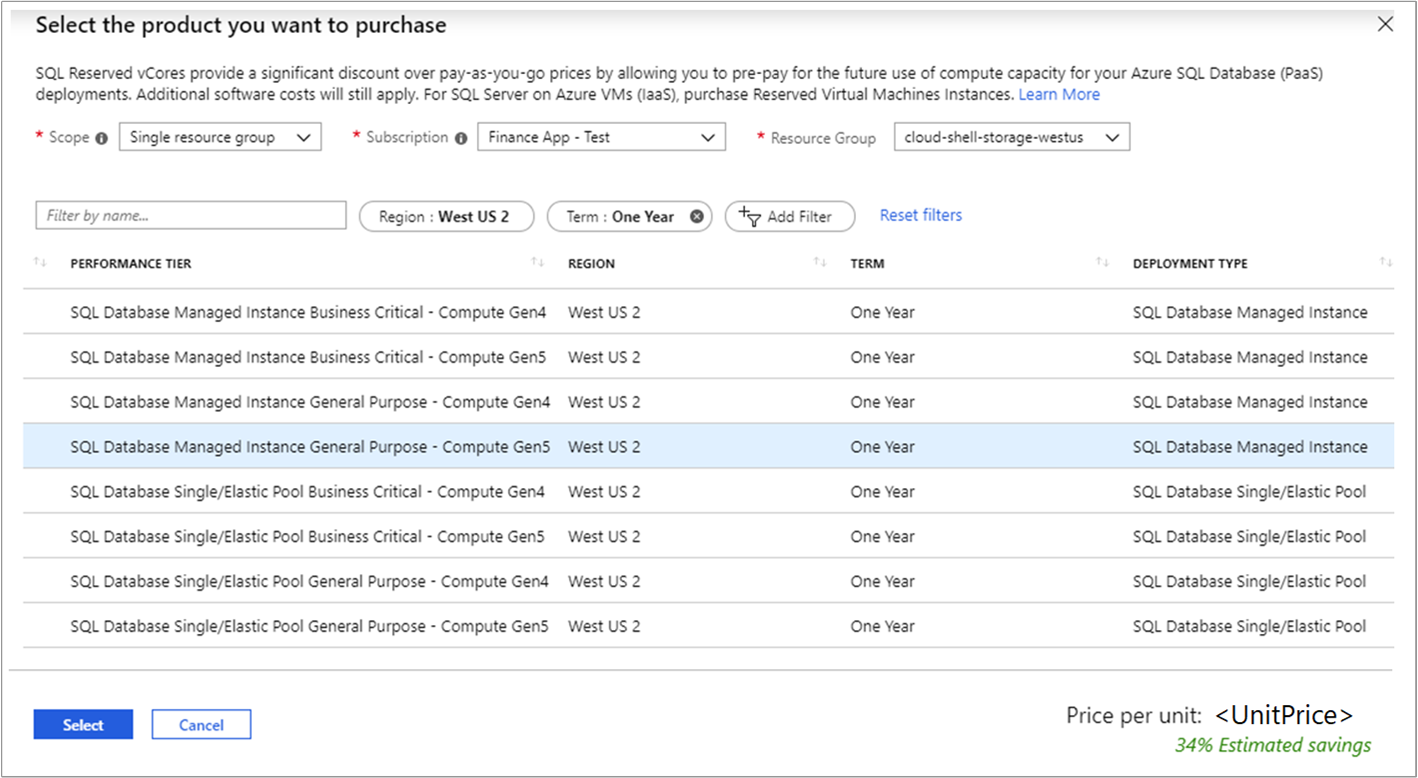
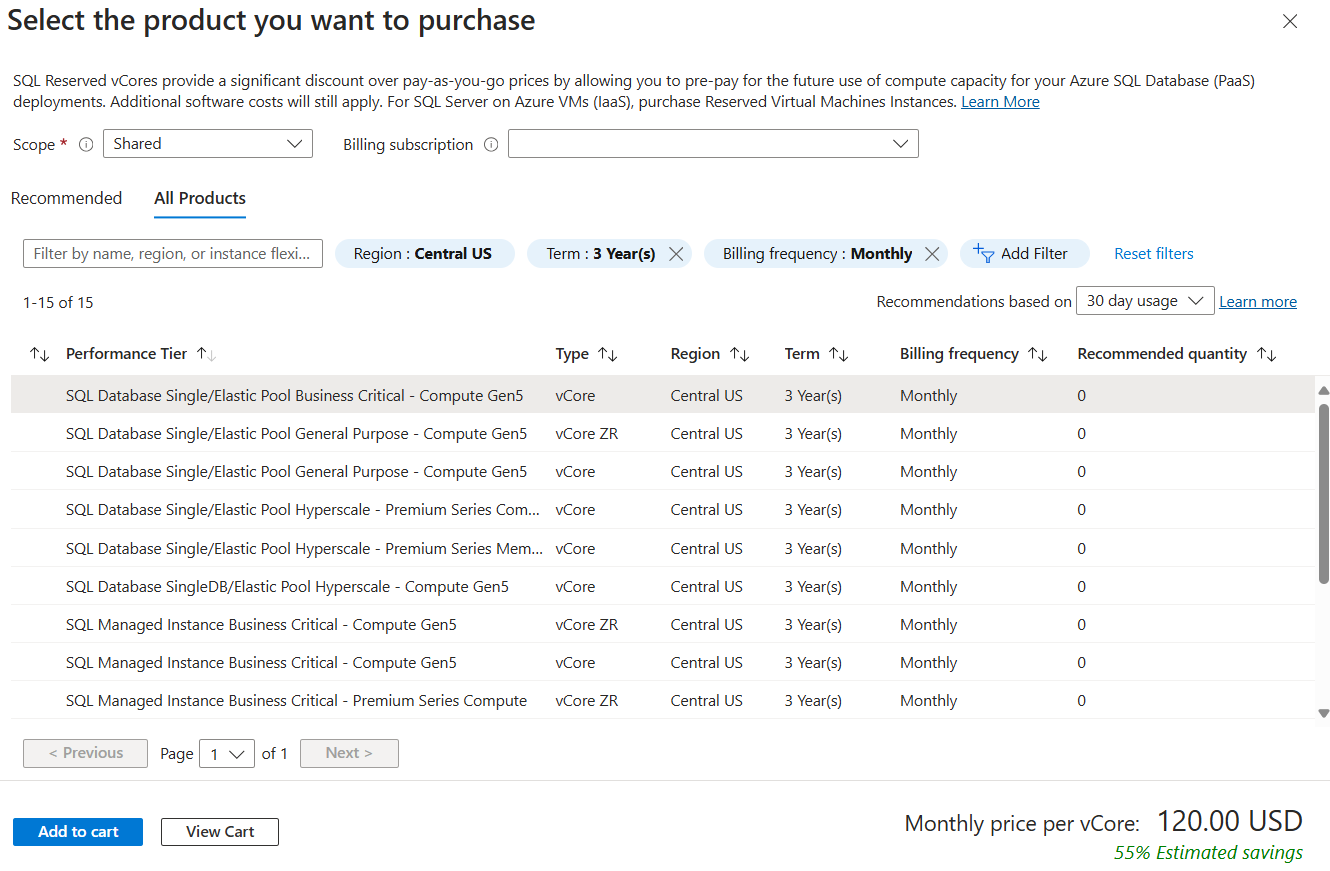
Making zr section generic

diff --git a/azure-sql/database/reservations-discount-overview.md b/azure-sql/database/reservations-discount-overview.md
@@ -5,7 +5,7 @@ description: Learn how to buy Azure SQL Database and SQL Managed Instance reserv
 author: rajeshsetlem
 ms.author: rsetlem
 ms.reviewer: wiassaf, mathoma
-ms.date: 12/16/2024
+ms.date: 02/20/2025
 ms.service: azure-sql
 ms.subservice: service-overview
 ms.topic: conceptual
@@ -56,25 +56,27 @@ Further, let's suppose that you plan to deploy the following within the next mon
 
 Also, let's suppose that you know that you will need these resources for at least 1 year. In this case, you should purchase a 32 (2x16) vCores 1-year reservation for single database/elastic pool General Purpose - standard-series (Gen5) and a 40 (2x4 + 32) vCore 1-year reservation for single database/elastic pool Business Critical - standard-series (Gen5).
 
-## Reservations for zone-redundant SQL managed instances
+## Reservations for zone-redundant resources 
 
-When you enable [zone-redundancy](../managed-instance/high-availability-sla-local-zone-redundancy.md#zone-redundant-availability) for Azure SQL Managed Instance, resources are made available in multiple availability zones to provide high availability and fault tolerance. 
+When you enable zone-redundancy, resources are made available in multiple availability zones to provide high availability and fault tolerance. 
 
-_Regular compute resources_ for the primary instance are charged separately to the _zone-redundant add-on_, and both are listed as separate entries on your bill. 
+Compute costs for the following zone-redundant resources include an extra charge for the zone-redundancy add-on, which is billed separately from standard compute: 
+- [Azure SQL Database](high-availability-sla-local-zone-redundancy.md#general-purpose-service-tier): Databases and elastic pools in the General Purpose service tier. 
+- [Azure SQL Managed Instance](../managed-instance/high-availability-sla-local-zone-redundancy.md#business-critical-service-tier-1): Instances in the Business Critical service tier. 
 
-Total compute is calculated by adding the _zone-redundant add-on_ to the _regular compute cost_. While it's possible to pay for reservations for only the regular compute cost, or the zone redundant add-on, to achieve full reservation coverage for zone-redundant instances, you must purchase two separate reservations.
+Reservations can cover compute costs for both standard compute and the zone-redundancy add-on, but they need to be purchased as two separate reservation types:
+
+- **vCore** for standard compute
+- **vCore ZR** for the zone-redundancy add-on
 
 The following lists the compute charges for different reservation scenarios:
-- **No reservation**:   
-   `Regular price for regular compute` + `regular price for zone-redundant add-on`
-- **Full reservation**:   
-   `Discounted reservation for regular compute` + `discounted reservation for zone-redundant add-on`
-- **Reservation for only regular compute**:   
-   `Discounted reservation for regular compute` + `regular price for zone-redundant add-on`
-- **Reservation for only zone-redundant add-on**:   
-   `Regular price for regular compute` + `discounted reservation for zone-redundant add-on`
+- **No reservation**: Pay-as-you-go price for both standard compute and the zone-redundant add-on.
+- **Full reservation (vCore + vCore ZR type)**: Reservation discount applies to both standard compute and the zone-redundant add-on. This scenario is for when you want to fully cover compute costs for zone-redundant resources.  
+- **Reservation for standard compute (vCore type only)**: Reservation discount applies to standard compute only. This scenario is for when you lack zone-redundant resources, or are buying a new reservation for non-zone-redundant resources. 
+- **Reservation for zone-redundant add-on (vCore ZR type only)**: Reservation discount applies to the zone-redundant add-on only. This scenario is for when you already have an existing vCore reservation and are adding zone redundancy to one or more resources.
 
 Carefully evaluate your compute needs and reservation strategy to optimize costs and ensure efficient resource allocation.
+
 
 ## Buy reservations
 
@@ -96,6 +98,7 @@ Carefully evaluate your compute needs and reservation strategy to optimize costs
     |Region      |The Azure region that's covered by the reservation.|
     |Deployment Type|The SQL resource type that you want to buy the reservation for.|
     |Performance Tier|The service tier for the databases or managed instances. |
+    |Type| The reservation type. Select **vCore** for standard compute or **vCore ZR** for the [zone redundancy add-on](#reservations-for-zone-redundant-resources). The **vCore ZR** reservation type is currently only available for the Azure SQL Database General Purpose service tier and Azure SQL Managed Instance Business Critical service tier. |
     |Term        |One year or three years.|
     |Quantity    |The number of vCores in the selected Azure region and service tier covered by the reservation. For example, if you run, or plan to run, multiple databases with a total compute capacity of standard-series (Gen5) 16 vCores in the East US region, then specify the quantity as 16 vCores to maximize the benefit for all the databases. |
 